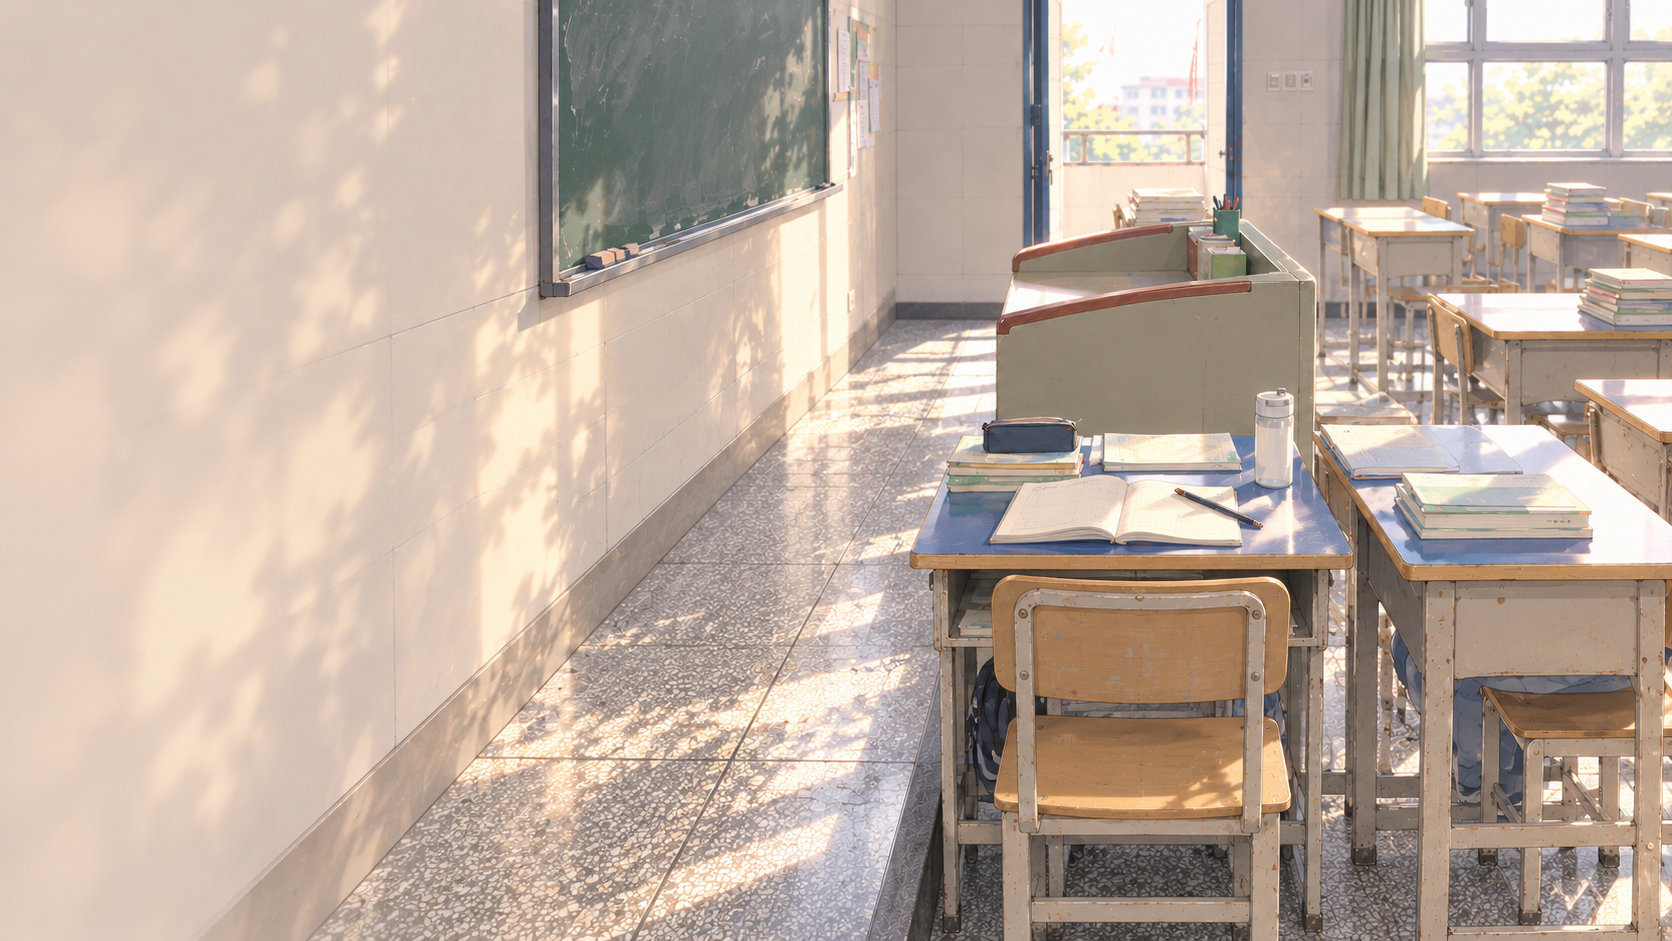
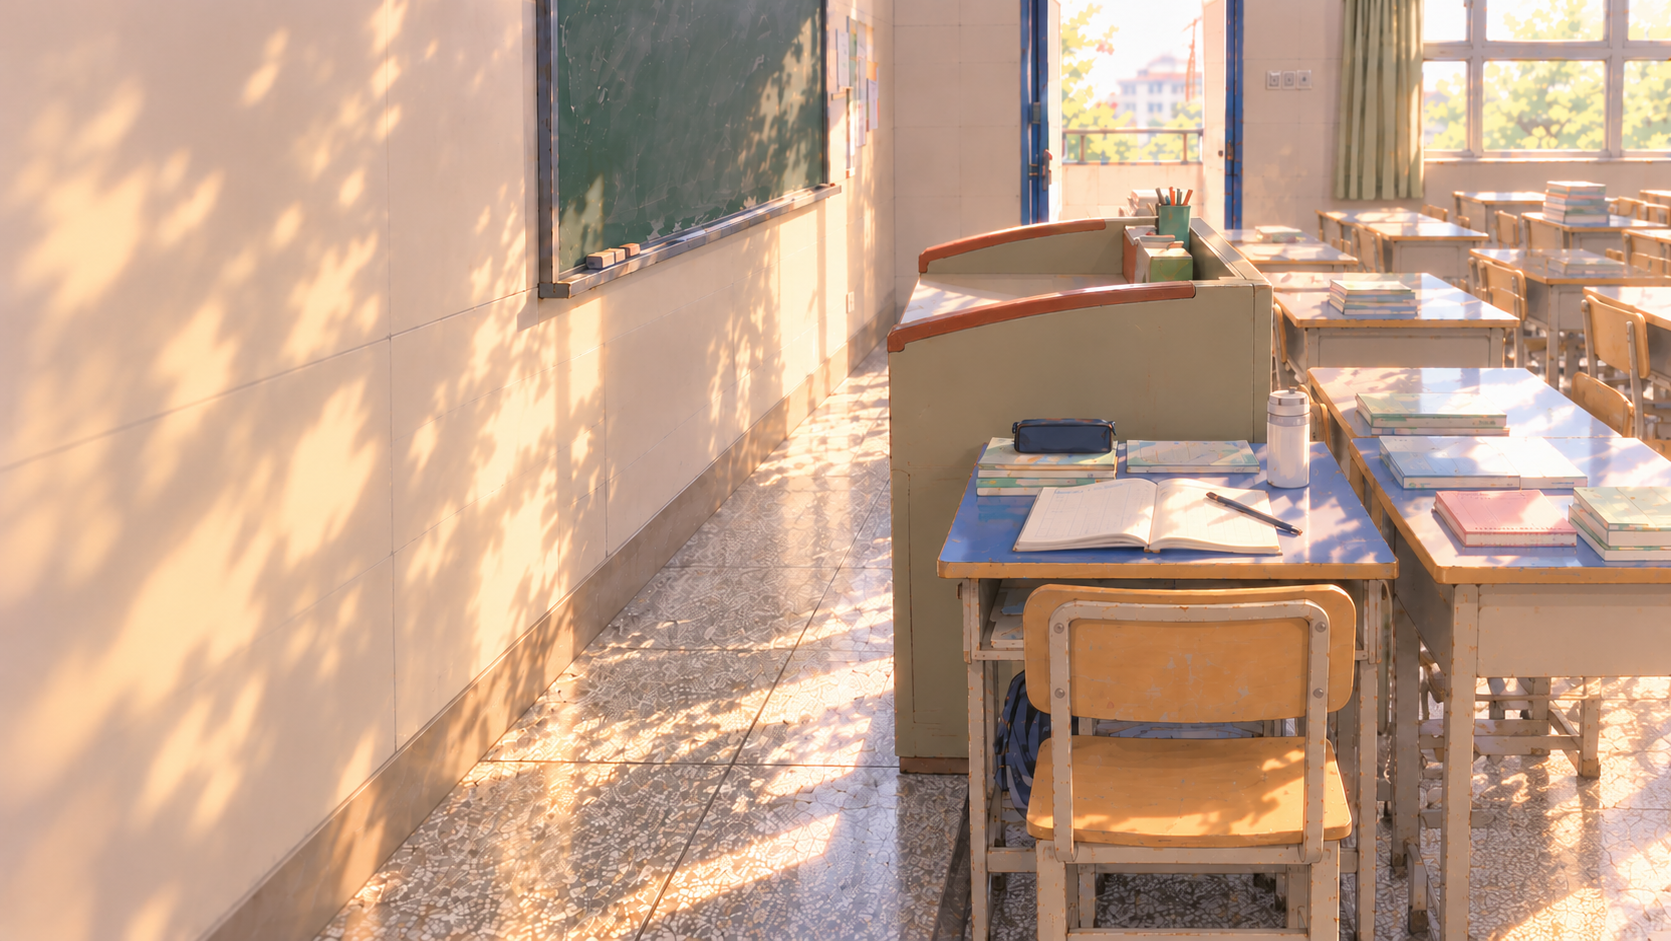
Replace main menu background with user selected image

diff --git a/docs/PROGRESS.md b/docs/PROGRESS.md
@@ -2,6 +2,10 @@
 
 ## 当前状态 · 2026-10-31
 
+### 指定附件替换主界面背景 · 2026-10-31
+- 作者指定最新附件直接用作主背景，并要求不做大量测试。原样保存 MainMenuBackground-selected.png，复制覆盖现有 Resources/Menu/MainMenuBackground.png，保留 .meta、主题引用及现有菜单控件；没有改用此前相似候选。
+- 最小检查：输入与目标哈希一致、1671×941、主题 GUID 引用保持正确。未执行运行测试或重新打包，现有 MenuDemo.exe 尚未包含新图片。
+
 ### 恢复原图质感并局部移动家具 · 2026-10-31
 - 作者否定 v4 的低细节表现，要求使用本轮第一张原图，只移动讲台与男主桌椅靠第一排。附件与已保存 v3 文件哈希一致；不再从简化多视图重画该主背景。
 - 使用内置 image_gen 编辑原图，v5 出现额外女孩桌 / 平行两椅而淘汰；v6 将讲台与男主桌椅向教室前方、画面右上纵深移动，粉本落到原有第一排桌，保留普通课桌阵列、原机位、光影和细密材质。生成文件与原图均为 1672×941，已目视核对；仍为待作者审阅图片，不宣称逐像素不变。

diff --git a/docs/MAIN_MENU_BACKGROUND_UPDATE.md b/docs/MAIN_MENU_BACKGROUND_UPDATE.md
@@ -1,0 +1,9 @@
+# 已选主界面背景替换
+
+2026-10-31。作者指定使用本轮附件 codex-clipboard-a15aebb4-f194-4330-a9c8-8805f29725fd.png，并要求不做大量测试。
+
+- 原样保存至 art/Menu/MainMenuBackground-selected.png；复制同一文件覆盖 UnityProject/Assets/_Game/Resources/Menu/MainMenuBackground.png。
+- 保留现有 .meta、MainMenuTheme 资源引用、菜单按钮与设置。本轮没有重新生成、缩放或重绘图片。
+- 仅核对文件哈希一致、尺寸为 1671×941、主题仍引用该图片 GUID。未做运行测试，未重新构建 Windows 程序。Unity 下次导入 / 进入 Play 使用新背景；现有 Builds/MenuDemo 是此前构建，尚不包含新图。
+
+旧主背景仍保存在 art/Menu/MainMenuBackground-v1.png，各轮候选留作版本历史。本轮附件是当前主菜单背景的实际内容，不以 v6 或其他相似候选代替。
